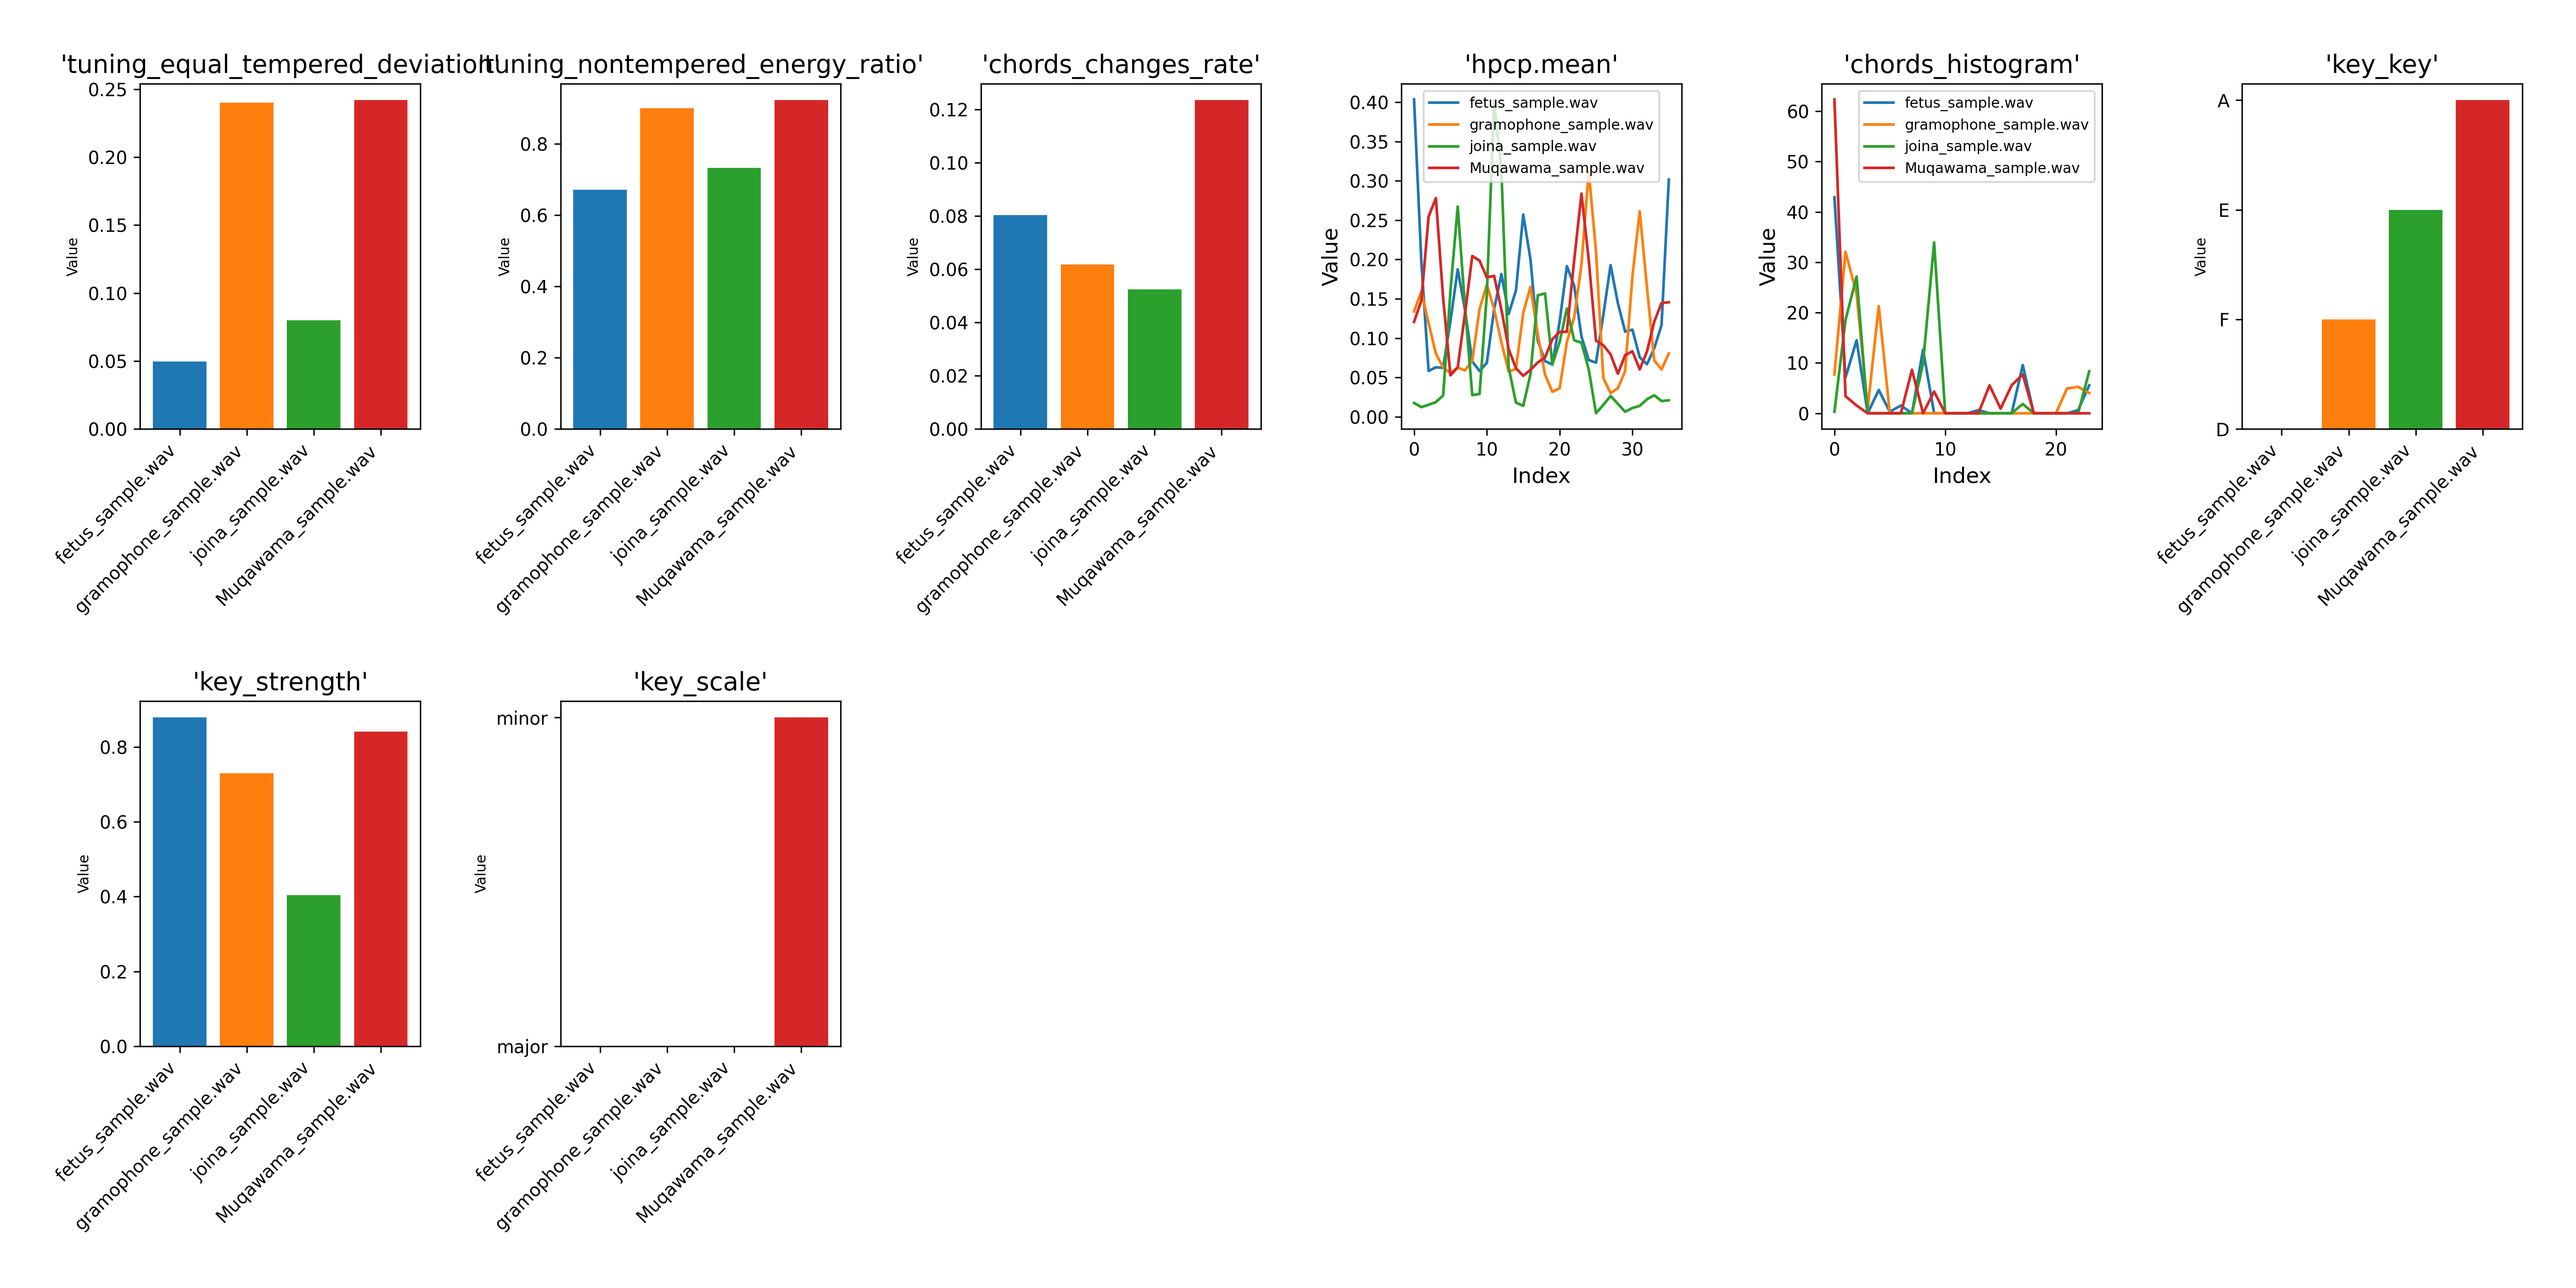
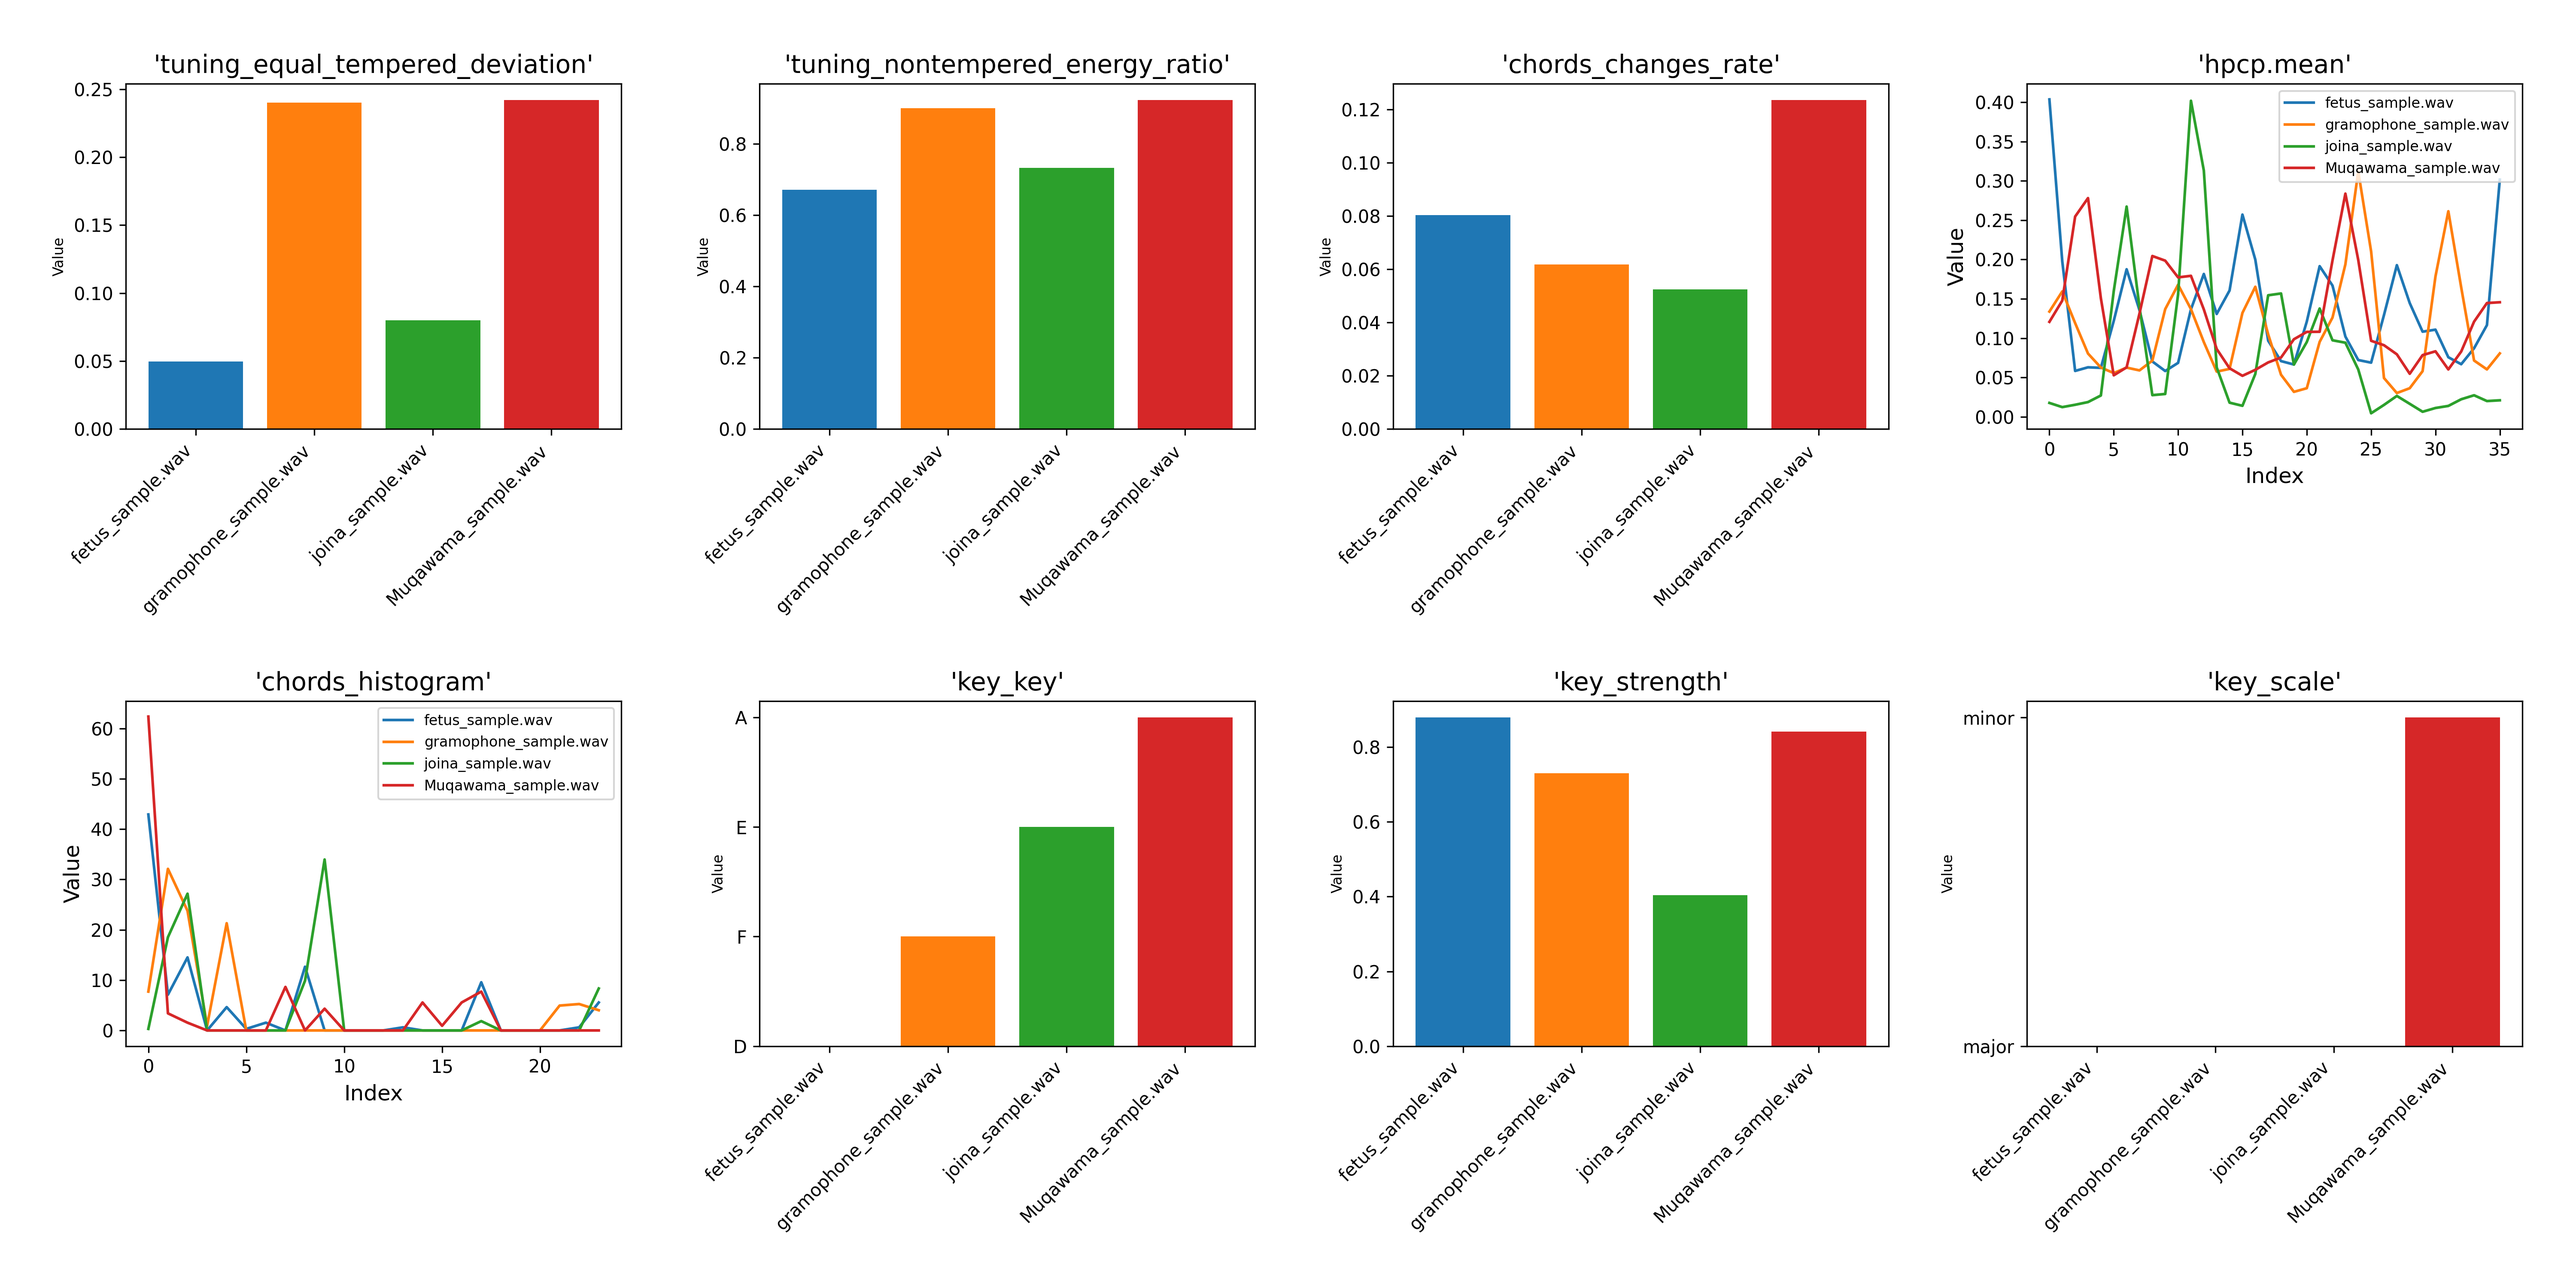
Change plots distribution

diff --git a/audio_analyzer.py b/audio_analyzer.py
@@ -563,7 +563,7 @@ def plot_sequence_features(sequence_values, file_names, output_file="sequence_fe
     print(f"Figure saved as '{output_path}'")
     plt.close(fig)  # Close the figure to free memory
 
-def plot_selected_features(data_list, file_names, selected_features, section, output_file="selected_features_comparison.png", columns=6):
+def plot_selected_features(data_list, file_names, selected_features, section, output_file="selected_features_comparison.png", columns=4):
     """
     Plots manually selected features for comparison across files and saves the figure.
 
@@ -572,7 +572,7 @@ def plot_selected_features(data_list, file_names, selected_features, section, ou
     :param selected_features: List of manually selected feature names to plot.
     :param section: The section to extract features from (e.g., 'lowlevel', 'rhythm', 'tonal').
     :param output_file: Name of the output file to save the figure.
-    :param columns: Number of columns in the grid layout (default: 6).
+    :param columns: Number of columns in the grid layout (default: 4).
     """
     feature_values = {feature: [] for feature in selected_features}
 
@@ -721,11 +721,14 @@ if __name__ == "__main__":
             "dissonance.mean",
             "dynamic_complexity",
             "hfc.mean",
+            "pitch_salience.mean",
+            "spectral_spread.mean",
             "spectral_complexity.mean",
             "spectral_rolloff.mean",
             "barkbands_kurtosis.mean",
             "barkbands.mean",
             "erbbands.mean",
+            "erbbands_kurtosis.mean",
             "mfcc.mean",
             "spectral_contrast_valleys.mean",
             "silence_rate_30dB.mean",
@@ -737,6 +740,8 @@ if __name__ == "__main__":
             "bpm",
             "beats_loudness.mean",
             "beats_loudness_band_ratio.mean",
+            "bpm_histogram_first_peak_spread.mean",
+            "bpm_histogram_first_peak_weight.mean",
             "danceability",
             "onset_rate",
         ]

diff --git a/README.md b/README.md
@@ -70,6 +70,9 @@ This figure compares manually selected low-level features across the processed a
 - **Dynamic Complexity**: Measures the variation in loudness over time, providing insight into the dynamic range of the audio.
 - **Dissonance**: Quantifies the perceived roughness or harshness of the sound, which can indicate the level of harmonic tension.
 - **ERB Bands Flatness (in dB)**: Represents the flatness of the energy distribution across ERB bands, with higher values indicating a more uniform energy distribution.
+- **Barkbands**: Represents the energy distribution across critical bands of hearing (Bark scale). These bands are useful for analyzing the spectral content of the audio in a way that aligns with human auditory perception.
+- **MFCC (Mel-Frequency Cepstral Coefficients)**: Encodes the spectral shape of the audio signal in a compact form. MFCCs are widely used in audio and speech processing tasks, such as speaker recognition and music classification.
+- **Pitch Salience**: Measures the prominence of the pitch in the audio signal. Higher values indicate a stronger and more defined pitch, which is useful for analyzing tonal clarity and harmonic content.
 
 These features are useful for analyzing the timbre, texture, and dynamic properties of the audio signal.
 
